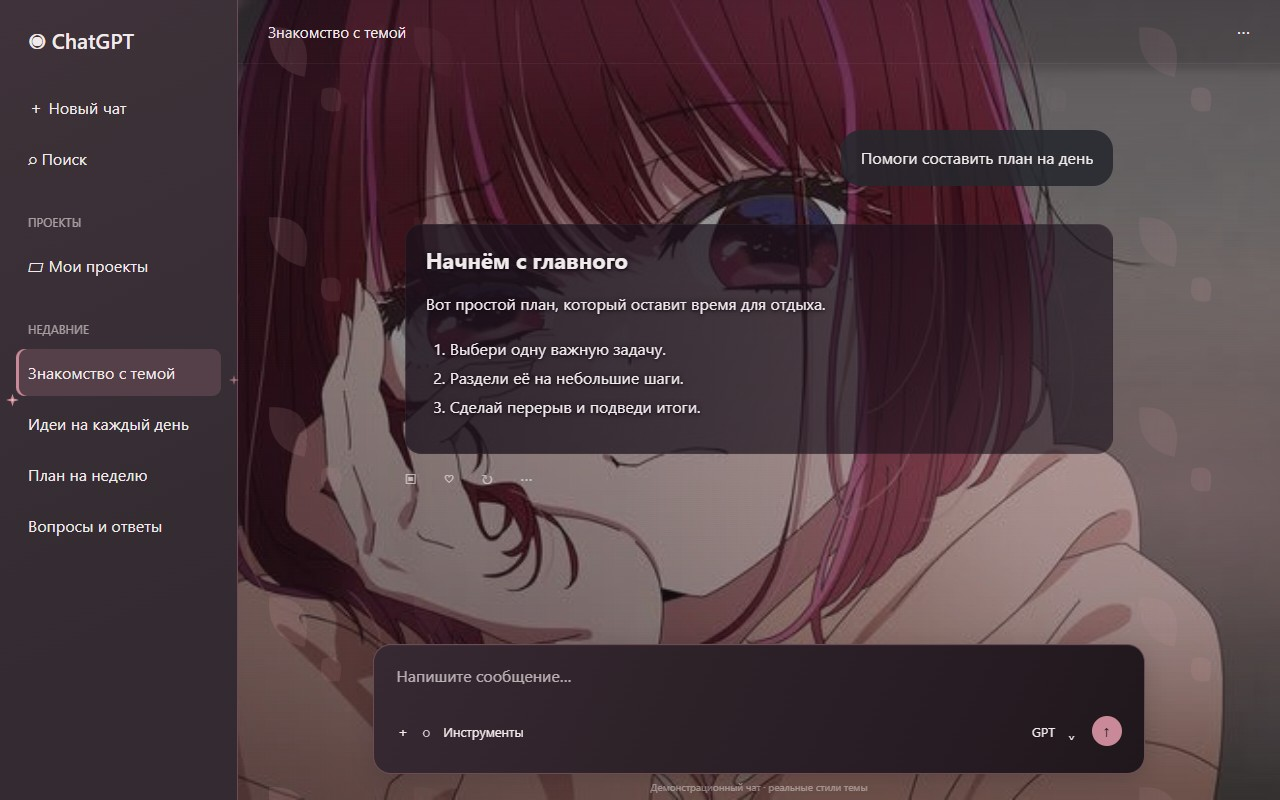
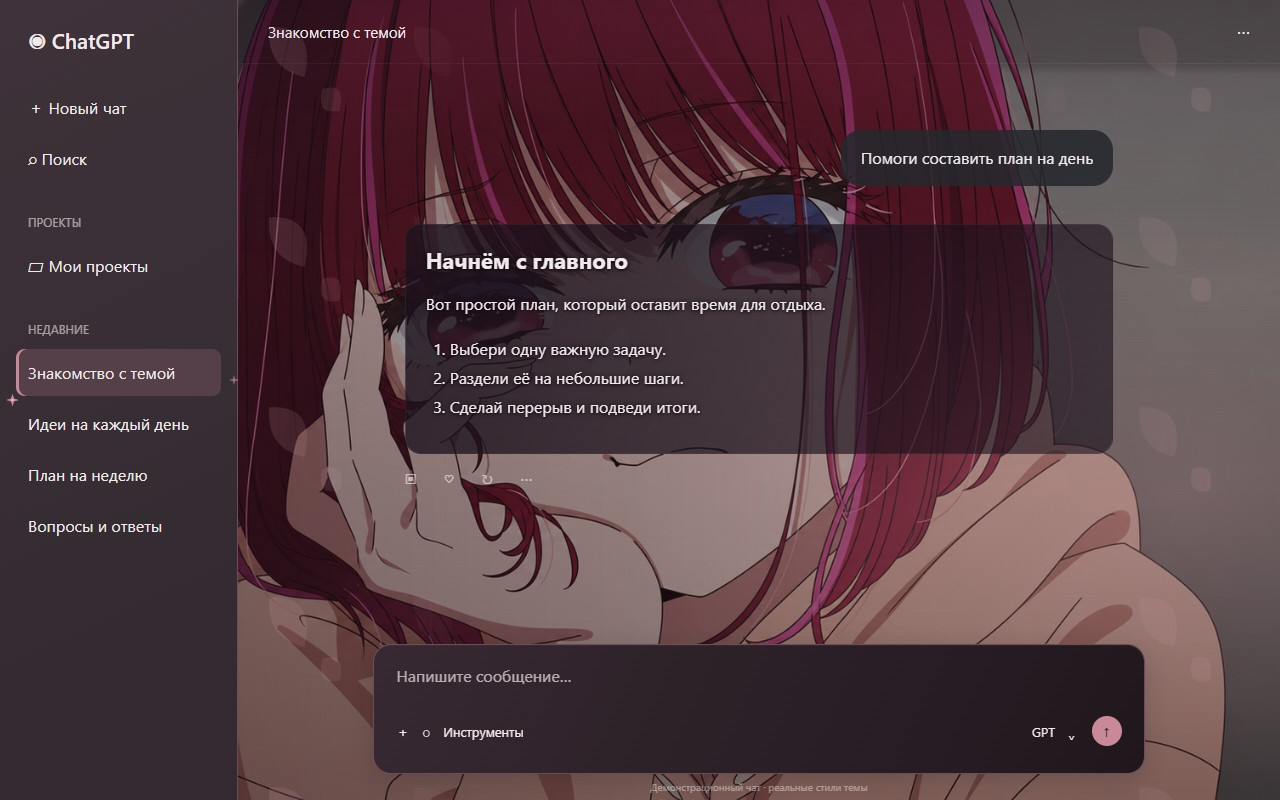
Improve Kana wallpaper clarity with restored artwork

diff --git a/themes/kana-ruby-spotlight/theme.css b/themes/kana-ruby-spotlight/theme.css
@@ -110,7 +110,7 @@ html.codex-theme-studio .composer-surface-chrome {
 html.codex-theme-studio .composer-surface-chrome:focus-within { border-color: var(--accent) !important; }
 html.codex-theme-studio .composer-surface-chrome button[data-cts-composer-action="send"]:enabled { background: var(--accent) !important; color: var(--night) !important; }
 
-/* Original artwork is retained byte-for-byte; only its display is rotated. */
+/* Enhanced artwork fills the chat; orientation is controlled by CSS. */
 html.codex-theme-studio {
  --accent:#ee6c96; --light:#ffc2d4;
  --night:#1b0c17;

diff --git a/themes/kana-soft-garnet/theme.css b/themes/kana-soft-garnet/theme.css
@@ -110,7 +110,7 @@ html.codex-theme-studio .composer-surface-chrome {
 html.codex-theme-studio .composer-surface-chrome:focus-within { border-color: var(--accent) !important; }
 html.codex-theme-studio .composer-surface-chrome button[data-cts-composer-action="send"]:enabled { background: var(--accent) !important; color: var(--night) !important; }
 
-/* Original artwork is retained byte-for-byte; only its display is rotated. */
+/* Enhanced artwork fills the chat; orientation is controlled by CSS. */
 html.codex-theme-studio {
  --accent:#c98998; --light:#f0c4ba;
  --night:#20171d;

diff --git a/README.md b/README.md
@@ -8,15 +8,15 @@
 
 **Для обычного использования клонировать репозиторий не нужно.** Скачайте готовую сборку для своей системы. Git, Node.js и Codex App Manager для её запуска не нужны. Совместимый ChatGPT должен быть установлен отдельно.
 
-Прямые ссылки на **версию 2.5.0**:
+Прямые ссылки на **версию 2.5.1**:
 
 | Система | Скачать | Как запустить |
 | --- | --- | --- |
-| **Windows x64** | [Готовая папка ZIP](https://github.com/ZLHRS/codex-anime-themes/releases/download/v2.5.0/ZLHRS-Theme-Studio-2.5.0-win-x64-portable.zip) | Распакуйте всю папку и откройте **ZLHRS Theme Studio.exe**. Установка не нужна. |
-| **Mac — Apple Silicon (M1/M2/M3/M4 и новее)** | [ZIP для Apple Silicon](https://github.com/ZLHRS/codex-anime-themes/releases/download/v2.5.0/ZLHRS-Theme-Studio-2.5.0-mac-arm64.zip) | Распакуйте архив, перенесите **ZLHRS Theme Studio.app** в «Программы» и откройте. |
-| **Mac — Intel** | [ZIP для Intel](https://github.com/ZLHRS/codex-anime-themes/releases/download/v2.5.0/ZLHRS-Theme-Studio-2.5.0-mac-x64.zip) | Распакуйте архив, перенесите **ZLHRS Theme Studio.app** в «Программы» и откройте. |
-| **Linux x64 — без установки** | [AppImage](https://github.com/ZLHRS/codex-anime-themes/releases/download/v2.5.0/ZLHRS-Theme-Studio-2.5.0-linux-x86_64.AppImage) | В свойствах файла разрешите выполнение как программы, затем запустите его. |
-| **Linux x64 — Debian/Ubuntu** | [Пакет DEB](https://github.com/ZLHRS/codex-anime-themes/releases/download/v2.5.0/ZLHRS-Theme-Studio-2.5.0-linux-amd64.deb) | Установите пакет через менеджер приложений и откройте Studio. |
+| **Windows x64** | [Готовая папка ZIP](https://github.com/ZLHRS/codex-anime-themes/releases/download/v2.5.1/ZLHRS-Theme-Studio-2.5.1-win-x64-portable.zip) | Распакуйте всю папку и откройте **ZLHRS Theme Studio.exe**. Установка не нужна. |
+| **Mac — Apple Silicon (M1/M2/M3/M4 и новее)** | [ZIP для Apple Silicon](https://github.com/ZLHRS/codex-anime-themes/releases/download/v2.5.1/ZLHRS-Theme-Studio-2.5.1-mac-arm64.zip) | Распакуйте архив, перенесите **ZLHRS Theme Studio.app** в «Программы» и откройте. |
+| **Mac — Intel** | [ZIP для Intel](https://github.com/ZLHRS/codex-anime-themes/releases/download/v2.5.1/ZLHRS-Theme-Studio-2.5.1-mac-x64.zip) | Распакуйте архив, перенесите **ZLHRS Theme Studio.app** в «Программы» и откройте. |
+| **Linux x64 — без установки** | [AppImage](https://github.com/ZLHRS/codex-anime-themes/releases/download/v2.5.1/ZLHRS-Theme-Studio-2.5.1-linux-x86_64.AppImage) | В свойствах файла разрешите выполнение как программы, затем запустите его. |
+| **Linux x64 — Debian/Ubuntu** | [Пакет DEB](https://github.com/ZLHRS/codex-anime-themes/releases/download/v2.5.1/ZLHRS-Theme-Studio-2.5.1-linux-amd64.deb) | Установите пакет через менеджер приложений и откройте Studio. |
 
 **Windows ZIP предназначен только для Windows.** Для Mac и Linux используйте соответствующие ссылки. Тип процессора Mac можно посмотреть в меню Apple → «Об этом Mac».
 
@@ -53,11 +53,11 @@
 
 Во вкладке «Инструкция» внутри приложения доступны короткие шаги настройки.
 
-## Настройки оформления (2.5.0)
+## Настройки оформления (2.5.1)
 
 В разделе «Настроить выбранную тему» доступны яркость, размер и положение картинки по горизонтали и вертикали. Нажмите **«Применить настройки»**: значения сохранятся отдельно для выбранной темы и восстановятся после перезапуска. **«Сбросить настройки этой темы»** вернёт исходное оформление только для неё. В теме с двумя персонажами обе картинки настраиваются вместе.
 
-У каждой темы свой декоративный эффект: лунный свет, бабочки, цветы, водяные блики, кольца энергии или подсветка деталей. Переключатель **«Анимации»** оставляет эффекты неподвижными; **«Декоративные эффекты»** полностью отключает добавленные украшения. Системная настройка уменьшения движения также учитывается. Настройки включены в готовые сборки 2.5.0.
+У каждой темы свой декоративный эффект: лунный свет, бабочки, цветы, водяные блики, кольца энергии или подсветка деталей. Переключатель **«Анимации»** оставляет эффекты неподвижными; **«Декоративные эффекты»** полностью отключает добавленные украшения. Системная настройка уменьшения движения также учитывается. Настройки включены в готовые сборки 2.5.1.
 
 ## Готовая сборка или исходники — в чём разница
 

diff --git a/themes/kana-ruby-spotlight/README.md b/themes/kana-ruby-spotlight/README.md
@@ -4,4 +4,4 @@
 
 Горизонтальный крупный план Каны, рубиновые акценты и звёздные блики.
 
-Выберите тему в ZLHRS Theme Studio. Яркость, размер, положение, эффекты и анимации настраиваются отдельно. Исходная картинка сохранена без перерисовки. Поворот на 90° выполняется стилями темы.
+Выберите тему в ZLHRS Theme Studio. Яркость, размер, положение, эффекты и анимации настраиваются отдельно. Используется версия с восстановленной нейросетью чёткостью; мелкие детали могут отличаться от исходника. Поворот на 90° выполняется стилями темы.

diff --git a/themes/kana-soft-garnet/README.md b/themes/kana-soft-garnet/README.md
@@ -4,4 +4,4 @@
 
 Мягкий бордовый фон, тёплый свет и спокойный портрет Каны по центру.
 
-Выберите тему в ZLHRS Theme Studio. Яркость, размер, положение, эффекты и анимации настраиваются отдельно. Исходная картинка сохранена без перерисовки.
+Выберите тему в ZLHRS Theme Studio. Яркость, размер, положение, эффекты и анимации настраиваются отдельно. Используется версия с восстановленной нейросетью чёткостью; мелкие детали могут отличаться от исходника.

diff --git a/CHANGELOG.md b/CHANGELOG.md
@@ -1,3 +1,7 @@
+# 2.5.1
+
+- Обе картинки Каны заменены версиями с восстановленной чёткостью линий и глаз. Мелкие детали могут отличаться от исходников. Полноэкранное размещение и поворот сохранены.
+
 # 2.5.0
 
 - Две новые темы с Каной на всю область чата: «Тёплый гранат» и «Рубиновый свет».
